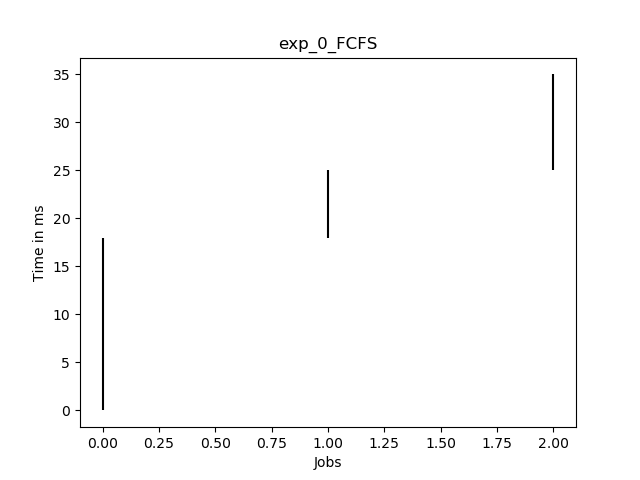
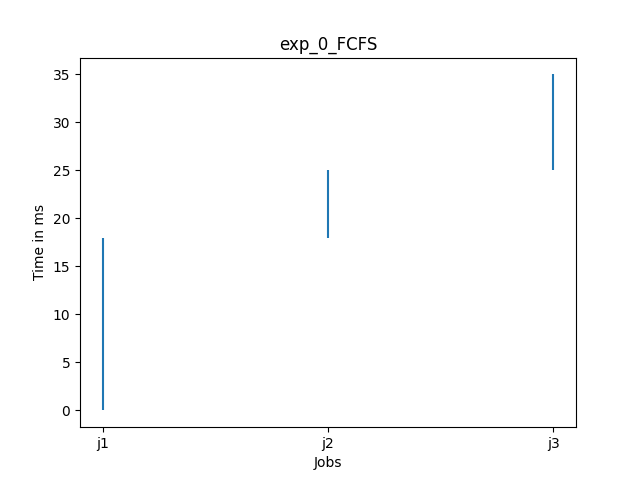
Added python script to create gantt charts from output file and included the samples

diff --git a/A2/create_gantt.py b/A2/create_gantt.py
@@ -1,0 +1,67 @@
+# read from the output file and create gantt charts for each algo and save them 
+# read output.txt
+# create ALGO_GANTT.png -> EXP_0_FCFS_GANTT.png 
+import sys
+import matplotlib as mpl
+import matplotlib.pyplot as plt
+import numpy as np
+
+def create_dict(line):
+    pro_dict ={}
+    tokens = line.split()
+    num_tokens = len(tokens)
+    num_bursts = num_tokens/3
+    for i in range(0,num_tokens,3):
+        PID  = tokens[i]
+        start = float(tokens[i+1])
+        end = float(tokens[i+2])
+        if(PID in pro_dict):
+            pro_dict[PID][0].append(start)
+            pro_dict[PID][1].append(end)
+        else:
+            pro_dict[PID] = [[start],[end]]
+    return pro_dict
+
+
+def create_ls(pro_dict):
+    pro_ls = []
+    for key in pro_dict:
+        pro_ls.append((key,pro_dict[key][0],pro_dict[key][1]))
+
+    pro_ls.sort()
+    return pro_ls
+
+
+def create_gantt(line,algo_name,prefix):
+    process_dict = create_dict(line) ## key is the PID and the value is a tuple lists of start and end times 
+    process_ls = create_ls(process_dict)
+    fig,ax = plt.subplots()
+    ls_PID = []
+    name_fig = prefix+"_"+algo_name+".png"
+    for idx in range(len(process_ls)):
+         num_bursts = len(process_ls[idx][1])
+         x_pos = [idx for i in range(num_bursts)]
+         ls_PID.append(process_ls[idx][0])
+         ax.vlines(x_pos,process_ls[idx][1],process_ls[idx][2])
+    ax.set_title(prefix+"_"+algo_name)
+    ax.set_xlabel("Jobs")
+    ax.set_ylabel("Time in ms")
+    ax.set_xticks([i for i in range(len(process_ls))],labels=ls_PID)
+    plt.savefig(name_fig)
+    return 
+
+def main():
+    input_fn = sys.argv[1] 
+    exp_prefix = sys.argv[2]
+    name_algos = ["FCFS","RR","SJF","SCTF","MLFQ"]
+    with open(input_fn,"r") as fh:
+        lines = fh.readlines()
+        for line_idx in range(0,10,2):
+            line = lines[line_idx].rstrip()
+            algo_idx = line_idx//2
+            create_gantt(line,name_algos[algo_idx],exp_prefix)
+    return 
+
+if __name__=="__main__":
+    main()
+
